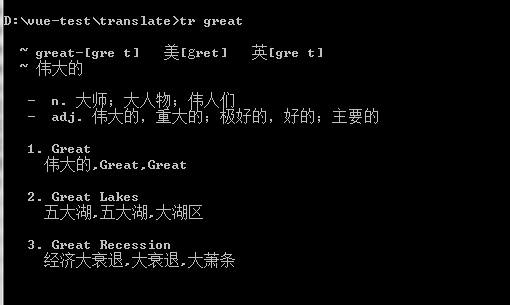
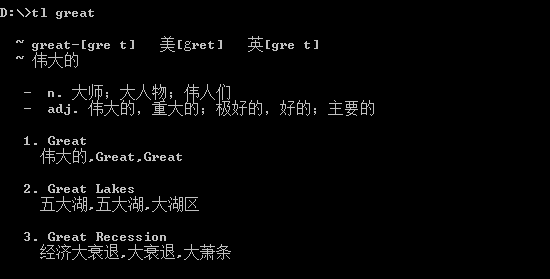
修复bug，增加有道翻译的key

Changed region(s): [[0.0, 0.0, 0.6471, 1.0], [0.0588, 0.6308, 0.4706, 0.9462], [0.0588, 0.2867, 0.7353, 0.4301]]

diff --git a/engine/youdao.js b/engine/youdao.js
@@ -1,8 +1,9 @@
 const http = require('http');
 
 module.exports = (query, config) => {
-  const key = config.youdao.key;
-  const keyfrom = config.youdao.keyfrom;
+  const pos = Math.floor(Math.random() * config.youdao.length);
+  const key = config.youdao[pos].key;
+  const keyfrom = config.youdao[pos].keyfrom;
 
   const data = {
     key,
@@ -10,7 +11,7 @@ module.exports = (query, config) => {
     type: 'data',
     doctype: 'json',
     version: '1.1',
-    q: query.join(',')
+    q: query.join(' ')
   }
 
   const errorCode = {

diff --git a/engine/baidu.js b/engine/baidu.js
@@ -7,10 +7,10 @@ module.exports = (query, config) => {
   let languageFrom = config.baidu.from;
   let languageTo = config.baidu.to;
   const salt = (new Date).getTime();
-
+  query = query.join('\n');
 
   const data = {
-    q: query.join('\n'),
+    q: query,
     from: languageFrom,
     to: languageTo,
     appid,

diff --git a/README.md b/README.md
@@ -7,6 +7,9 @@
 - [x] 百度翻译
 - [x] 有道翻译
 
+
+工具默认使用`有道翻译`！
+
 ...持续添加中
 
 ## 安装
@@ -15,7 +18,8 @@ npm install terminal-translate -g
 ```
 
 ## 帮助
-`tr -h` 激活帮助菜单
+指令`tl` 或者 `translate`
+`tl -h` 查看帮助菜单
 ```
   Usage: translate
   a tearmail-transtalte tool!
@@ -44,50 +48,43 @@ npm install terminal-translate -g
 
 切换翻译引擎为百度翻译输入以下指令
 ```
-tr -e baidu
+tl -e baidu
 ```
 
 修改百度翻译引擎语言翻译结果为英语，翻译结果不能修改`auto`
 ```
-tr -t en
+tl -t en
 ```
 
 修改百度翻译引擎语言翻译起始语言为中文(不建议修改，默认值为auto，会自动检测)
 ```
-tr -f zh
+tl -f zh
 ```
 
 查看百度翻译引擎支持的语言翻译列表
 ```
-tr -l
+tl -l
 ```
 
 单个单词翻译
 ```
-tr word
-
-translate word
+tl word
 ```
 
 多个单词以空格分隔
 ```
-tr apple book
-
-translate apple book
+tl apple book
 ```
 
 句子翻译请以双引号包裹
 ```
-tr "I love your money!"
+tl "I love you, baby!"
 
-translate "I love your money"
 ```
 
 单词句子混合同时翻译
 ```
-tr apple book "I love your money!"
-
-translate apple book "I love your money!"
+tl apple book "I love you, baby!"
 ```
 
 混合翻译
@@ -102,9 +99,7 @@ translate apple book "I love your money!"
 
 切换翻译引擎为有道翻译输入以下指令
 ```
-tr -e youdao
-
-translate -e youdao
+tl -e youdao
 ```
 
 单个单词翻译结果
@@ -156,10 +151,24 @@ translate -e youdao
       "vie": "越南语 - Vietnamese"
     }
   },
-  "youdao": {
-    "key": "1253992655",
-    "keyfrom": "ShanaTranslate"
-  }
+  "youdao": [
+    {
+      "key": "1253992655",
+      "keyfrom": "ShanaTranslate"
+    },
+    {
+      "key": "303727991",
+      "keyfrom": "ShanaTool"
+    },
+    {
+      "key": "825633179",
+      "keyfrom": "ShanaTool2"
+    },
+    {
+      "key": "825633180",
+      "keyfrom": "ShanaTool3"
+    }
+  ]
 }
 ```
 
